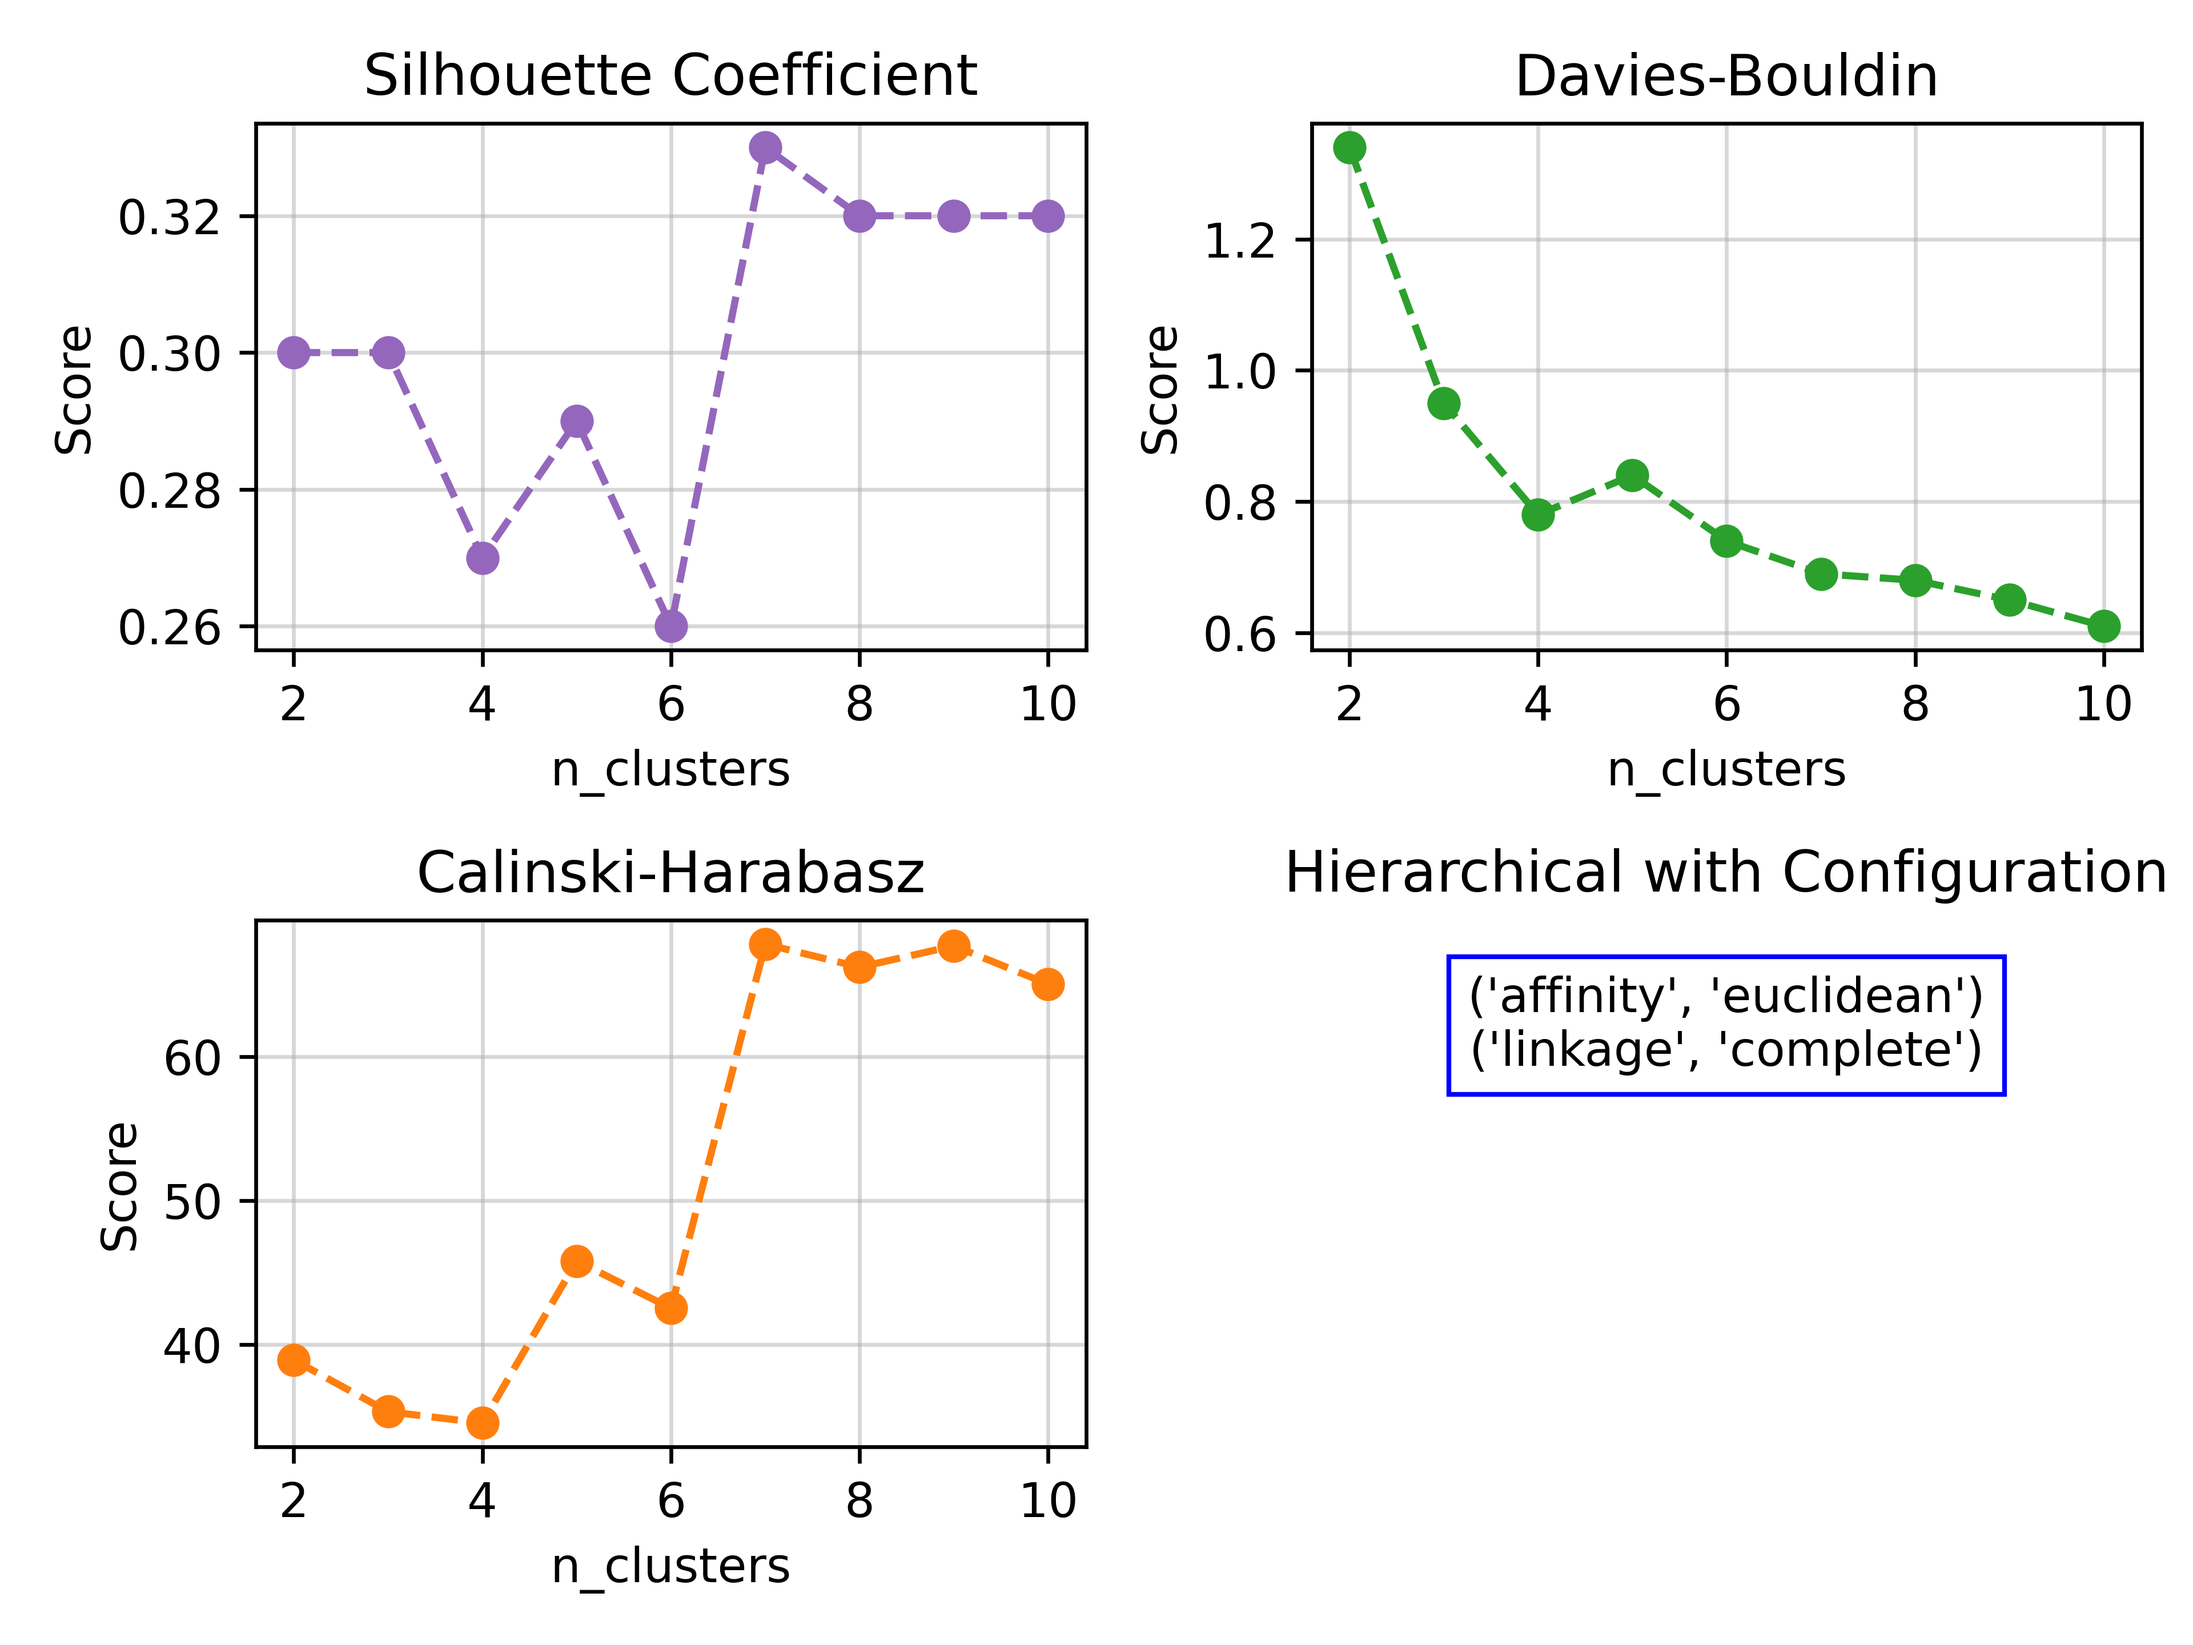
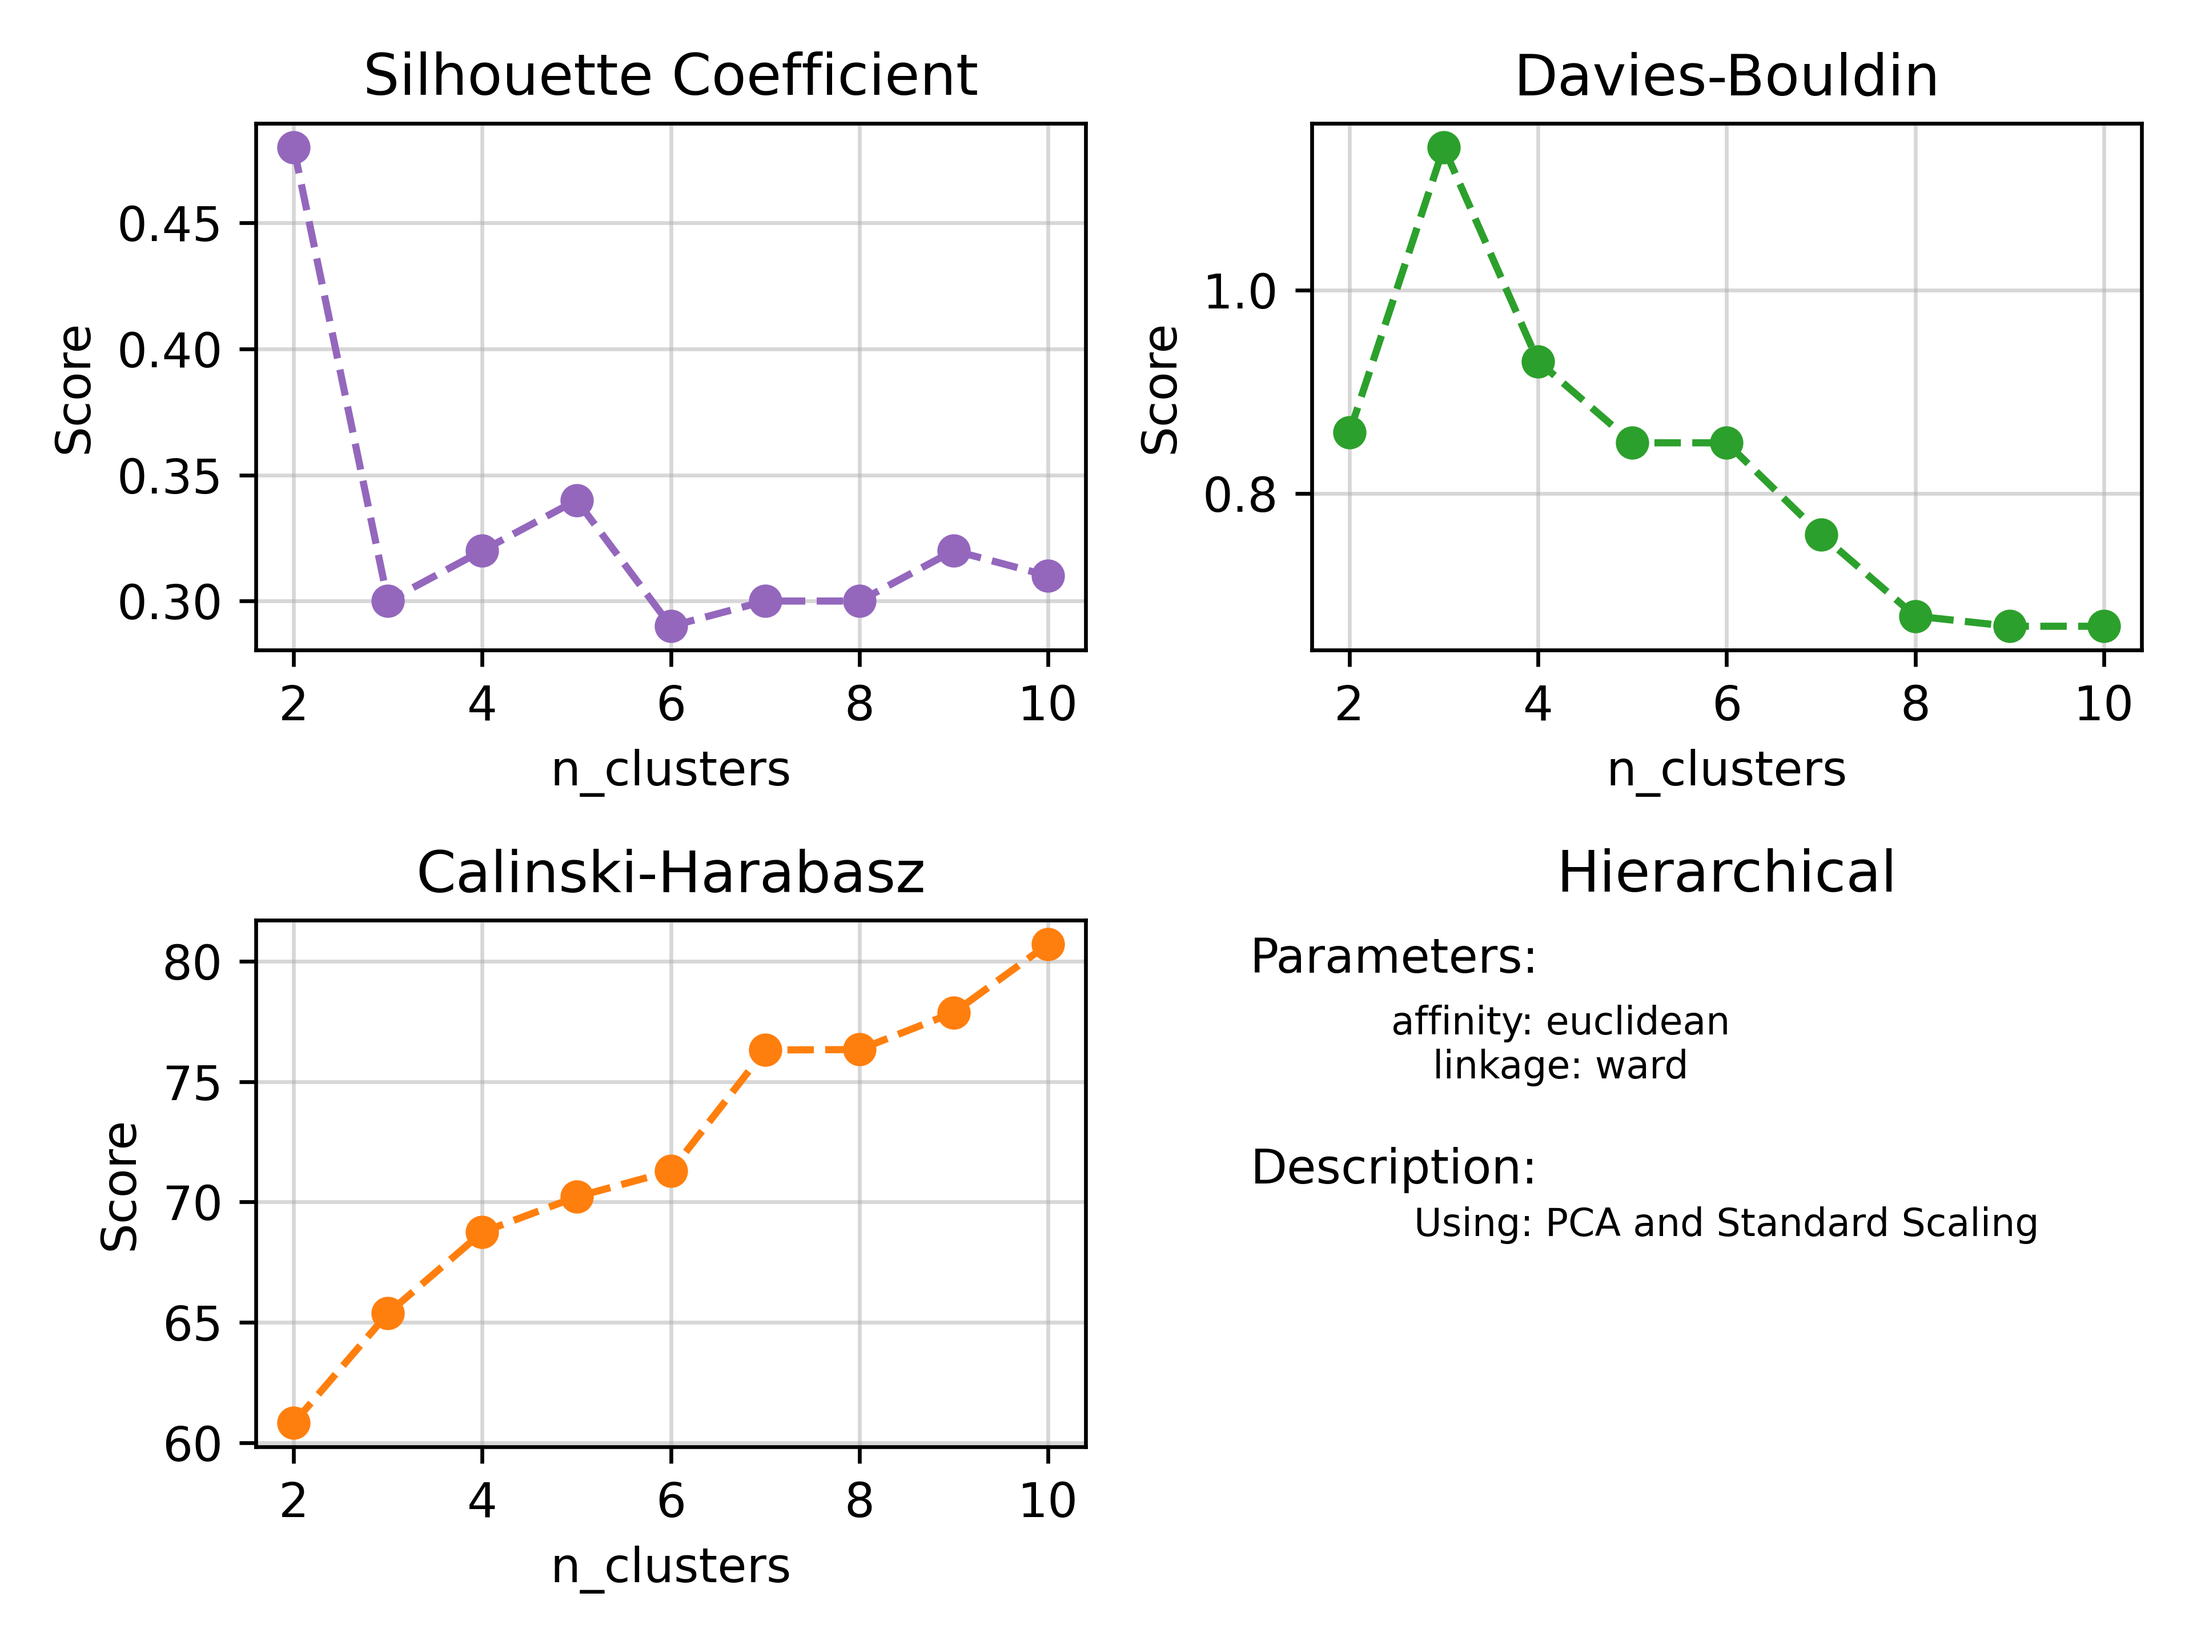
Changed data processing options Added min max scaling Added option to use either PCA or TSNE Changed visualisation titles for options

diff --git a/Code/ranking.py b/Code/ranking.py
@@ -3,32 +3,33 @@ from matplotlib import pyplot as plt
 from prettytable import PrettyTable
 
 
-def algorithm_sweep(c_type, df, params):
+def algorithm_sweep(c_type, data, params, method):
     """"Perform all parameter sweeps for a specified algorithm"""
     print("Results for: {}".format(c_type))
 
     if c_type == "K-Means":
-        param_sweep("K-Means", params["kmeans"], df, "n_clusters", range(2, 11))
-        param_sweep("K-Means", params["kmeans"], df, "n_init", range(10, 60, 10))
-        param_sweep("K-Means", params["kmeans"], df, "max_iter", range(100, 1100, 100))
+        param_sweep(c_type, params["kmeans"], data, method, "n_clusters", range(2, 11))
+        param_sweep(c_type, params["kmeans"], data, method, "n_init", range(10, 60, 10))
+        param_sweep(c_type, params["kmeans"], data, method, "max_iter", range(100, 1100, 100))
 
     elif c_type == "Hierarchical":
-        param_sweep("Hierarchical", params["hierarchical"], df, "n_clusters", range(2, 11))
-        param_sweep("Hierarchical", params["hierarchical"], df, "linkage", ["ward", "complete", "average"])
+        param_sweep(c_type, params["hierarchical"], data, method, "n_clusters", range(2, 11))
+        param_sweep(c_type, params["hierarchical"], data, method, "linkage", ["ward", "complete", "average"])
 
         if params["hierarchical"]["linkage"] != "ward":  # If using ward default affinity must be used
-            param_sweep("Hierarchical", params["hierarchical"], df, "affinity", ["euclidean", "manhattan", "cosine"])
+            param_sweep(c_type, params["hierarchical"], data, method, "affinity",
+                        ["euclidean", "manhattan", "cosine"])
 
     elif c_type == "DBSCAN":
-        param_sweep("DBSCAN", params["dbscan"], df, "eps", [0.5, 1, 1.5, 2])
-        param_sweep("DBSCAN", params["dbscan"], df, "min_samples", range(0, 10))
+        param_sweep(c_type, params[c_type], data, method, "eps", [0.5, 1, 1.5, 2])
+        param_sweep(c_type, params[c_type], data, method, "min_samples", range(0, 10))
 
     else:
-        param_sweep("OPTICS", params["optics"], df, "min_samples", range(5, 12))
-        param_sweep("OPTICS", params["optics"], df, "metric", ["cityblock", "cosine", "euclidean", "manhattan"])
+        param_sweep(c_type, params[c_type], data, method, "min_samples", range(5, 11))
+        param_sweep(c_type, params[c_type], data, method, "metric", ["minkowski", "euclidean", "manhattan"])
 
 
-def param_sweep(c_type, c_params, data, param, vals):
+def param_sweep(c_type, c_params, data, method, param, vals):
     """Test algorithm with different parameter values"""
     silhouette = []
     davies = []
@@ -41,19 +42,18 @@ def param_sweep(c_type, c_params, data, param, vals):
 
         # Run the correct algorithm with updates parameters and do not produce visualisation
         if c_type == "K-Means":
-            data, labels = kmeans(data, c_params, "score")
+            clusters = kmeans(data, c_params)
         elif c_type == "Hierarchical":
-            data, labels = hierarchical(data, c_params, "score")
+            clusters = hierarchical(data, c_params)
         else:
-            data, labels = density(data, c_params, c_type, "score")
+            clusters = density(data, c_params, c_type)
 
         # Store scores for use
-        score = scores(data, labels)
+        score = scores(data, clusters.labels_)
         silhouette.append(score[0])
         davies.append(score[1])
         calinski.append(score[2])
 
-    # Create array using the scores
     c_scores = [silhouette, davies, calinski]
     # Reset parameter
     c_params[param] = default
@@ -61,11 +61,11 @@ def param_sweep(c_type, c_params, data, param, vals):
     c_params = [x for x in list(c_params.items()) if param not in x]
 
     # Display results in plot and table
-    plot_results(c_scores, vals, param, c_params, c_type)
+    plot_results(c_scores, vals, param, c_params, c_type, method)
     print_results(c_scores, vals, param)
 
 
-def plot_results(score, vals, param, c_params, c_type):
+def plot_results(score, vals, param, c_params, c_type, method):
     """Produce subplot of scores for a parameter sweep"""
     fig, ax = plt.subplots(2, 2, tight_layout=True)
 
@@ -104,12 +104,17 @@ def plot_results(score, vals, param, c_params, c_type):
     ax[1, 0].set_ylabel("Score")
     ax[1, 0].set_xlabel(param)
 
+    p_one = "{}: {}".format(c_params[0][0], c_params[0][1])
+    p_two = "{}: {}".format(c_params[1][0], c_params[1][1])
+
     # Use last subplot to show the current setup
     ax[1, 1].set_axis_off()
-    ax[1, 1].set_title("{} with Configuration".format(c_type))
-    ax[1, 1].text(0.5, 0.8, "{}\n{}".format(c_params[0], c_params[1]),
-                  horizontalalignment="center", verticalalignment="center",
-                  bbox=dict(facecolor="none", edgecolor="blue"))
+    ax[1, 1].set_title("{}".format(c_type))
+    ax[1, 1].text(0.1, 0.9, "Parameters:", horizontalalignment="center")
+    ax[1, 1].text(0.3, 0.7, "{}\n{}".format(p_one, p_two), horizontalalignment="center", fontsize=8)
+    ax[1, 1].text(0.1, 0.5, "Description:", horizontalalignment="center")
+    ax[1, 1].text(0.5, 0.4, "Using: {} and {} Scaling".format(method[1], method[0]),
+                  horizontalalignment="center", fontsize=8)
 
     plt.savefig("../Visualisations/Parameter Sweeps/{}/{}.png".format(c_type, param), dpi=600)
 

diff --git a/Code/clustering.py b/Code/clustering.py
@@ -4,35 +4,35 @@ from sklearn import metrics
 import numpy as np
 
 
-def run_ca(c_type, df, params):
+def run_ca(c_type, data, params, method):
     """Produce and display clustering algorithms using specified method"""
     if c_type == "K-Means":
-        kmeans(df, params["kmeans"], "plot")
+        clusters = kmeans(data, params["kmeans"])
     elif c_type == "Hierarchical":
-        hierarchical(df, params["hierarchical"], "plot")
-    elif c_type == "DBSCAN":
-        density(df, params["dbscan"], "DBSCAN", "plot")
+        clusters = hierarchical(data, params["hierarchical"])
     else:
-        density(df, params["optics"], "OPTICS", "plot")
+        clusters = density(data, params[c_type], c_type)
+
+    scatter_plot(c_type, method, data, clusters)
 
 
 def scores(data, labels):
     """Get scores for the clusters produced"""
     # A measure of similarity to other clusters
-    silhouette = np.round(metrics.silhouette_score(data, labels), 2)  # 1 is best, 0 worst
+    sc = np.round(metrics.silhouette_score(data, labels), 2)  # 1 is best, 0 worst
     # Measure of separation
-    davies_bouldin = np.round(metrics.davies_bouldin_score(data, labels), 2)  # Lower is better, 0-1
+    db = np.round(metrics.davies_bouldin_score(data, labels), 2)  # Lower is better, 0-1
     # Dispersion of clusters, is the current number of clusters good
-    calinski_harabasz = np.round(metrics.calinski_harabasz_score(data, labels), 2)  # Higher is better
+    ch = np.round(metrics.calinski_harabasz_score(data, labels), 2)  # Higher is better
 
-    return silhouette, davies_bouldin, calinski_harabasz
+    return sc, db, ch
 
 
-def scatter_plot(c_type, diff_df, score, clusters):
+def scatter_plot(c_type, method, diff_df, clusters):
     """Produce scatter plot for the clusters"""
-    score = ("Silhouette: {}\nDavies-Bouldin: {}\nCalinski-Harabasz: {}\n".format(score[0], score[1], score[2]))
-
-    diff_df.plot.scatter(x="Principal Component 1", y="Principal Component 2", c=clusters.labels_, cmap="tab20", label=score)
+    score = scores(diff_df, clusters.labels_)
+    score = ("SC: {:.2f} \nDB: {}\nCH: {}\n".format(score[0], score[1], score[2]))
+    diff_df.plot.scatter(x="Component 1", y="Component 2", c=clusters.labels_, cmap="tab20", label=score)
 
     # Plot centroids
     if c_type == "K-Means":
@@ -41,34 +41,29 @@ def scatter_plot(c_type, diff_df, score, clusters):
     # Display scores in best position
     plt.legend(handlelength=0, frameon=False, handletextpad=0)
 
-    plt.title(c_type)
-    plt.savefig("../Visualisations/Clusters/{}.png".format(c_type), dpi=600)
+    title = "{} with {} Scaling and {}".format(c_type, method[0], method[1])
+
+    plt.title(title)
+    plt.savefig("../Visualisations/Clusters/{}.png".format(title), dpi=600)
 
 
-def kmeans(data, k_params, display):
+def kmeans(data, k_params):
     """Produce clusters using K-Means"""
     clustering = KMeans(n_clusters=k_params["n_clusters"], n_init=k_params["n_init"], max_iter=k_params["max_iter"])
     clustering.fit(data)
 
-    # Decide how to display results
-    if display == "plot":
-        scatter_plot("K-Means", data, scores(data, clustering.labels_), clustering)
-    else:
-        return data, clustering.labels_
+    return clustering
 
 
-def hierarchical(data, h_params, display):
+def hierarchical(data, h_params):
     """Produce clusters using Agglomerative Clustering"""
     clustering = AgglomerativeClustering(n_clusters=h_params["n_clusters"], linkage=h_params["linkage"])
     clustering.fit(data)
 
-    if display == "plot":
-        scatter_plot("Hierarchical", data, scores(data, clustering.labels_), clustering)
-    else:
-        return data, clustering.labels_
+    return clustering
 
 
-def density(data, d_params, c_type, display):
+def density(data, d_params, c_type):
     """Produce clusters using either DBSCAN or OPTICS"""
     # Use different parameters so need to be setup separately
     if c_type == "DBSCAN":
@@ -78,7 +73,4 @@ def density(data, d_params, c_type, display):
 
     clustering.fit(data)
 
-    if display == "plot":
-        scatter_plot(c_type, data, scores(data, clustering.labels_), clustering)
-    else:
-        return data, clustering.labels_
+    return clustering

diff --git a/Code/data.py b/Code/data.py
@@ -2,15 +2,16 @@ import glob
 import numpy as np
 import pandas as pd
 from sklearn.decomposition import PCA
-from sklearn.preprocessing import StandardScaler
+from sklearn.manifold import TSNE
+from sklearn.preprocessing import StandardScaler, MinMaxScaler
 
 
-def proc_data(spec1, spec2):
+def proc_data(spec, method):
     """Prepare data from specification for clustering"""
-    zero, twenty_four = prep(spec1), prep(spec2)
-    diff = calc_diff(zero, twenty_four)
+    diff = calc_diff(prep(spec[0]), prep(spec[1]))
+    diff = dim_reduce(diff, method[0], method[1])
 
-    return reduce(diff)
+    return diff
 
 
 def prep(spec):
@@ -73,18 +74,19 @@ def calc_diff(zero, twenty_four):
     return diff_df
 
 
-def reduce(df):
+def dim_reduce(df, scale, reduce):
     """Reduce the dimensions of the given dataframe to 2"""
-    # ID is not relevant data
-    if "ID" in df.columns:
-        df.drop("ID", axis=1, inplace=True)
+    # Scale the data before applying reduction techniques
+    if scale == "Standard":
+        df = StandardScaler().fit_transform(df)
+    else:
+        df = MinMaxScaler().fit_transform(df)
 
-    # Scale the data before applying PCA
-    df = StandardScaler().fit_transform(df)
-
-    # Reduce dimensions to 2
-    pca = PCA(n_components=2)
-    principalComponents = pca.fit_transform(df)
+    # Reduce dimensions by either just PCA or through TSNE using PCA
+    if reduce == "PCA":
+        df = PCA(n_components=2).fit_transform(df)
+    else:
+        df = TSNE(n_components=2, learning_rate="auto", init="pca").fit_transform(df)
 
     # Return the reduced dataframe
-    return pd.DataFrame(data=principalComponents, columns=["Principal Component 1", "Principal Component 2"])
+    return pd.DataFrame(data=df, columns=["Component 1", "Component 2"])

diff --git a/Code/main.py b/Code/main.py
@@ -7,19 +7,16 @@ import json
 with open("../config/def_params.json") as f:
     params = json.load(f)
 
-# Dataframes for differences for index knees projected into 2D
-left = proc_data("00L", "24L")
-right = proc_data("00R", "24R")
+# Decide scaling and reduction type
+# method = ["Min-Max", "TSNE"]
+method = ["Standard", "PCA"]
 
-# # Example clustering calls
-# run_ca("K-Means", left, params)
-# run_ca("Hierarchical", left, params)
-# run_ca("DBSCAN", left, params)
-# run_ca("OPTICS", left, params)
+# Dataframes for differences where method
+left = proc_data(["00L", "24L"], method)
+right = proc_data(["00L", "24L"], method)
 
-# Example parameter sweep calls
-algorithm_sweep("K-Means", left, params)
-algorithm_sweep("Hierarchical", left, params)
-# Currently, has problem with sweeps for algorithm and metric
-algorithm_sweep("DBSCAN", left, params)
-algorithm_sweep("OPTICS", left, params)
+run_ca("K-Means", left, params, method)
+run_ca("Hierarchical", left, params, method)
+
+algorithm_sweep("K-Means", left, params, method)
+algorithm_sweep("Hierarchical", left, params, method)
